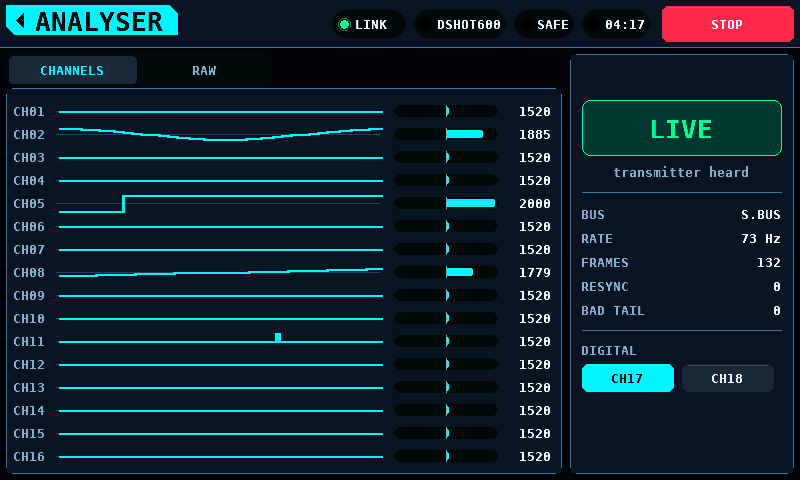
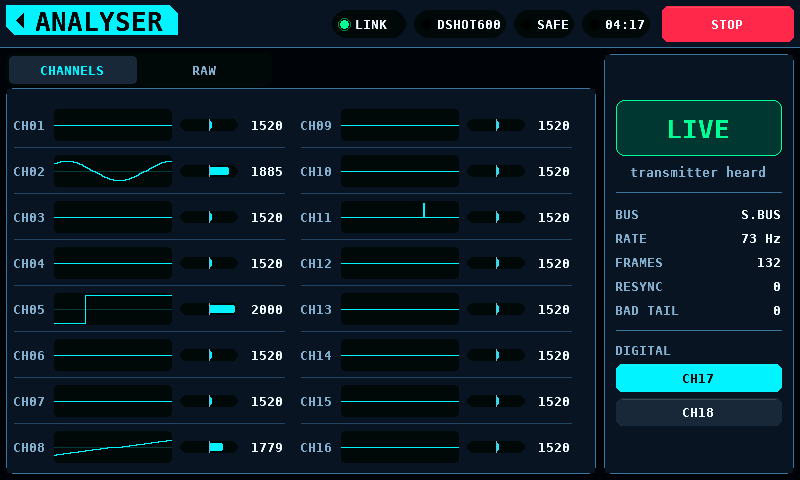
Eight by two, and a state card only as wide as its widest word
Sixteen rows gave each trace four pixels of amplitude and the whole card
of width.  Eight by two halves the history and doubles the height, which
is the better trade: a sweep reads as a curve rather than a ripple, and a
one-frame glitch is a full-height spike instead of a blip.

It costs something and the cost is worth naming.  A dropout is a notch
across all sixteen channels at one instant, and in a single column that
is one vertical event the eye catches whole; split across two it is the
same instant in two places.  The state block calls frame loss out in
words, which is why this is the trade to take.

The state card is now sized from what it must hold rather than from what
was left over: FRAME LOST at 16x28 and the sentence under it at 8x16 are
both 160 pixels, so the card is 190 and the 34 it gives back goes to the
traces.  Stacking the two digital channels is what allowed it -- that
pair side by side was setting the width, and it was being spent on eight
characters rather than on the thing next door that could use it.

The trace is clipped to its trough while drawn.  Three things put ink
outside it and only one was visible: the newest column began *at* the
right edge and is a whole pitch wide, a span between samples is drawn a
pixel taller than it measures so a flat run still shows, and the
trough's corners are rounded while the columns are not.

The centreline is the unlit shade of the trace that runs on it, not a
[…]

Changed region(s): [[0.0, 0.0938, 0.9688, 1.0], [0.8438, 0.75, 1.0, 0.875], [0.8125, 0.25, 0.9062, 0.3125]]

diff --git a/shared/ui/analyser_screen.c b/shared/ui/analyser_screen.c
@@ -28,9 +28,16 @@
 #define TAB_H   28
 #define BODY_Y  44
 
-#define LCARD_W 556
+/*
+ * The state card is only as wide as the widest thing it must hold: the word
+ * FRAME LOST at 16x28, and the sentence under it at 8x16, both 160 pixels.
+ * Everything it saves goes to the traces, which is the half of this screen
+ * that can use more room.
+ */
+#define RCARD_PREF 190
+#define LCARD_W (W - 2 * PAD - 8 - RCARD_PREF)
 #define RCARD_X (PAD + LCARD_W + 8)
-#define RCARD_W (W - RCARD_X - PAD)
+#define RCARD_W RCARD_PREF
 
 /*
  * Sixteen lanes of recent history, one per channel.
@@ -55,14 +62,21 @@
  * wide makes the eye measure a line's height against a faint centre when all
  * it wants is a length.
  */
-#define HIST      108              /* about a second and a half at S.BUS rate */
-#define LANE_H    23
-#define LANE_TOP  (BODY_Y + 8)
-#define LANE_X    56               /* where a lane's trace starts */
-#define LANE_W    (HIST * 3)
-#define BAR_X     (LANE_X + LANE_W + 14)
-#define BAR_W     104
-#define VAL_X     (BAR_X + BAR_W + 8)
+#define HIST      118             /* one pixel a sample, so about 1.7 s */
+#define PITCH     1
+
+/* Eight rows of two.  Half the history each, twice the height to draw it in. */
+#define COLS      2
+#define ROWS      8
+#define COL_W     ((LCARD_W - 16) / COLS)
+#define LANE_H    46
+#define LANE_TOP  (BODY_Y + 10)
+
+#define LAB_W     40               /* the channel's name              */
+#define TRACE_W   (HIST * PITCH)
+#define BAR_W     58
+#define BAR_GAP   8
+#define VAL_W     40
 
 static const char *const k_tab_labels[] = { "CHANNELS", "RAW" };
 
@@ -175,43 +189,89 @@ static gfx_color_t live(void)
 /* One channel's lane: its name, its trace, and where it is now. */
 static void draw_lane(gfx_canvas_t *c, int ch)
 {
-    const int y   = LANE_TOP + ch * LANE_H;
+    const int col = ch / ROWS;
+    const int row = ch % ROWS;
+    const int x0  = PAD + 8 + col * COL_W;
+    const int y   = LANE_TOP + row * LANE_H;
     const int mid = y + LANE_H / 2;
-    const int half = LANE_H / 2 - 3;
+
+    const int tx = x0 + LAB_W;
+    const int bx = tx + TRACE_W + BAR_GAP;
+    const int vx = bx + BAR_W + 6;
+
+    const int gh   = LANE_H - 14;
+    const int half = gh / 2 - 2;
 
     char lbl[16];
     snprintf(lbl, sizeof(lbl), "CH%02d", (ch + 1) & 0xFF);
-    gfx_text(c, PAD + 8, mid - 8, lbl, UI_FONT_LABEL,
+    gfx_text(c, x0, mid - 8, lbl, UI_FONT_LABEL,
              ui_theme_color(UI_C_TEXT_DIM), 1);
 
-    /* Neutral, drawn the whole width: sixteen of these make a comb the eye
-     * reads a step against without measuring anything. */
-    gfx_hline(c, LANE_X, mid, LANE_W, ui_theme_color(UI_C_GRID));
-
-    const gfx_color_t ink = live();
+    /*
+     * The trace runs in a trough of its own, in the same sunk colour the bar
+     * beside it sits in.  Drawn straight onto the card the two halves of a
+     * lane read as different kinds of thing; on the same ground they read as
+     * one instrument shown two ways.
+     */
+    gfx_fill_round_rect(c, tx, mid - gh / 2, TRACE_W, gh, 4,
+                        ui_theme_color(UI_C_PANEL_SUNK));
 
     /*
-     * Oldest at the left, newest at the right, so a change arrives at the
-     * edge you are already looking at and walks away from it.
+     * Neutral, in the unlit shade of the trace that runs on it rather than in
+     * a neutral grey.  It is the same idea as the segment numerals and the
+     * horn's rings: the line is always there in the glass, and the trace is
+     * that same line lit.
      */
-    const unsigned n = s.filled;
-    if (n > 0u) {
-    int prev_y = 0;
-    for (unsigned i = 0; i < n; ++i) {
-        const unsigned idx = (s.head + HIST - n + i) % HIST;
-        const int v  = s.hist[ch][idx];
-        const int py = mid - (v * half) / 1000;
-        const int px = LANE_X + LANE_W - (int)((n - 1u - i) * 3u);
-        if (i == 0u) {
-            prev_y = py;
-        }
-        /* A span rather than a point, so a step between two samples is a
-         * line and not two dots with nothing between them. */
-        const int top = (py < prev_y) ? py : prev_y;
-        const int bot = (py < prev_y) ? prev_y : py;
-        gfx_fill_rect(c, px, top, 3, bot - top + 2, ink);
-        prev_y = py;
+    gfx_hline(c, tx, mid, TRACE_W,
+              gfx_lerp(ui_theme_color(UI_C_PANEL_SUNK), live(), 56));
+
+    /* A rule under the lane, so a trace that wanders near the edge of its
+     * own row cannot be read as belonging to the next one. */
+    if (row < ROWS - 1) {
+        gfx_hline(c, x0, y + LANE_H - 1, COL_W - 16,
+                  gfx_lerp(ui_theme_color(UI_C_PANEL),
+                           ui_theme_color(UI_C_EDGE), 130));
     }
+
+    const gfx_color_t ink = live();
+    const unsigned n = s.filled;
+
+    if (n > 0u) {
+        /*
+         * Clipped to the trough while the trace is drawn.
+         *
+         * Three things put ink outside it otherwise, and only one of them is
+         * obvious: the newest column began *at* the right edge and is a whole
+         * pitch wide, a span between two samples is drawn a pixel taller than
+         * it measures so a flat run is still visible, and the trough's
+         * corners are rounded while the columns are not.  Clipping answers
+         * all three at once and keeps answering them if any of them change.
+         */
+        const gfx_rect_t trough = { (int16_t)tx, (int16_t)(mid - gh / 2),
+                                    (int16_t)TRACE_W, (int16_t)gh };
+        const gfx_rect_t was = c->clip;
+        if (gfx_clip_set(c, trough)) {
+            /*
+             * Oldest at the left, newest at the right, so a change arrives at
+             * the edge you are already looking at and walks away from it.
+             */
+            int prev_y = 0;
+            for (unsigned i = 0; i < n; ++i) {
+                const unsigned idx = (s.head + HIST - n + i) % HIST;
+                const int v  = s.hist[ch][idx];
+                const int py = mid - (v * half) / 1000;
+                const int px = tx + TRACE_W - PITCH
+                               - (int)((n - 1u - i) * PITCH);
+                if (i == 0u) {
+                    prev_y = py;
+                }
+                const int top = (py < prev_y) ? py : prev_y;
+                const int bot = (py < prev_y) ? prev_y : py;
+                gfx_fill_rect(c, px, top, PITCH, bot - top + 1, ink);
+                prev_y = py;
+            }
+        }
+        c->clip = was;
     }
 
     /*
@@ -219,11 +279,11 @@ static void draw_lane(gfx_canvas_t *c, int ch)
      * quantity is how far it is from neutral and which way, and a bar growing
      * from one end puts that sign in the number rather than in the picture.
      */
-    const int bh = LANE_H - 11;
-    gfx_fill_round_rect(c, BAR_X, mid - bh / 2, BAR_W, bh, bh / 2,
+    const int bh = 12;
+    gfx_fill_round_rect(c, bx, mid - bh / 2, BAR_W, bh, bh / 2,
                         ui_theme_color(UI_C_PANEL_SUNK));
     if (s.have) {
-        const int bmid  = BAR_X + BAR_W / 2;
+        const int bmid  = bx + BAR_W / 2;
         const int reach = BAR_W / 2 - 3;
         const int v     = s.hist[ch][(s.head + HIST - 1u) % HIST];
         int span = (v * reach) / 1000;
@@ -244,8 +304,8 @@ static void draw_lane(gfx_canvas_t *c, int ch)
     } else {
         snprintf(val, sizeof(val), "---");
     }
-    gfx_text_in(c, (gfx_rect_t){ (int16_t)VAL_X, (int16_t)(mid - 8),
-                                 (int16_t)(LCARD_W - VAL_X + PAD - 10), 16 },
+    gfx_text_in(c, (gfx_rect_t){ (int16_t)vx, (int16_t)(mid - 8),
+                                 (int16_t)VAL_W, 16 },
                 val, UI_FONT_LABEL,
                 s.have ? ui_theme_color(UI_C_TEXT)
                        : ui_theme_color(UI_C_TEXT_FAINT), 1,
@@ -370,11 +430,13 @@ static void draw_right(gfx_canvas_t *c)
     gfx_hline(c, x, BODY_Y + 238, w, ui_theme_color(UI_C_EDGE));
     gfx_text(c, x, BODY_Y + 250, "DIGITAL", UI_FONT_LABEL,
              ui_theme_color(UI_C_TEXT_DIM), 1);
+    /* Stacked, not side by side.  Two of these across is what set this card's
+     * width, and the width was being spent on a pair of four-character labels
+     * rather than on the traces next door. */
     for (int i = 0; i < 2; ++i) {
         const bool on = s.have && ((i == 0) ? s.frame.ch17 : s.frame.ch18);
-        const gfx_rect_t r = { (int16_t)(x + i * (w / 2)),
-                               (int16_t)(BODY_Y + 272),
-                               (int16_t)(w / 2 - 8), 28 };
+        const gfx_rect_t r = { (int16_t)x, (int16_t)(BODY_Y + 272 + i * 34),
+                               (int16_t)w, 28 };
         ui_button(c, r, (i == 0) ? "CH17" : "CH18",
                   on ? ui_theme_color(UI_C_ACCENT)
                      : ui_theme_color(UI_C_PANEL_HI),

diff --git a/test/host/render_screen.c b/test/host/render_screen.c
@@ -282,6 +282,15 @@ int main(int argc, char **argv)
                 }
             }
             raw[23] = SBUS_FLAG_CH17;
+            /*
+             * The state this screen exists for gets a golden of its own.  A
+             * receiver in failsafe sends well-formed numbers it was told to
+             * invent, and how that is presented is the thing most worth
+             * holding still between releases.
+             */
+            if (strcmp(view, "analyser-failsafe") == 0) {
+                raw[23] |= SBUS_FLAG_FAILSAFE;
+            }
 
             sbus_frame_t frame;
             bool got = false;

diff --git a/tools/render_ui.py b/tools/render_ui.py
@@ -69,6 +69,7 @@ SCREENS = {
     "servo":      ("servo.png",      "servo",      "dark"),
     "analyser":   ("analyser.png",   "analyser",   "dark"),
     "logs":       ("logs.png",       "logs",       "dark"),
+    "analyser-failsafe": ("analyser-failsafe.png", "analyser", "dark"),
     "logs-import":("logs-import.png","logs",       "dark"),
     "logs-plot":  ("logs-plot.png",  "logs",       "dark"),
     "setup":      ("setup.png",      "setup",      "dark"),

diff --git a/tools/frame_cost.py b/tools/frame_cost.py
@@ -67,6 +67,7 @@ SOURCES = [
     "shared/bench/bench_state.c",
     "shared/bench/telemetry_sim.c",
     "shared/servo/servo_sim.c",
+    "shared/sbus/sbus.c",
     "shared/bench/throttle.c",
 ]
 INCLUDES = [
@@ -78,6 +79,7 @@ INCLUDES = [
     "shared/logfile/include",
     "shared/settings/include",
     "shared/servo/include",
+    "shared/sbus/include",
 ]
 
 MODES = ["frame", "frame-idle", "sim", "chrome", "overview", "servo",

diff --git a/docs/Screens.md b/docs/Screens.md
@@ -97,10 +97,45 @@ and hands it a 432 px window, so without the shift the footer ran from 430 to
 472 in a canvas 432 tall and RESCAN, OPEN and PLOT could not be pressed at
 all.
 
-The rest, each naming its own blocker:
+The servo bench is commanded by its horn: drag anywhere on the sweep and the
+arm points there. The case beside it is not the dial, and neither is the middle
+of the boss, which is not a direction.
 
 ![Servo](img/servo.png)
+
+The arm follows the *measured* position and not the commanded one, with no
+easing of its own. Easing towards a measurement would add the bench's lag on
+top of the servo's, and once drawn the two are indistinguishable -- a slow
+servo and a slow screen look identical, and only one of them is under test. So
+the commanded position is drawn faintly behind the measured one, and lag shows
+as two arms rather than as a number disagreeing with a picture.
+
+The analyser is two thirds history and one third now. The question it is asked
+is "I moved that -- which channel was it?", and no arrangement of current
+values can answer it, because the information is in the movement. Each channel
+keeps the last second and a half, so the one that moved is the one with a step
+in it, and the eye finds a step among fifteen flat lines without being told
+where to look. The bar beside each trace answers the other question -- how far
+is it now -- without reading a number.
+
 ![Analyser](img/analyser.png)
+
+It is also the only arrangement that separates the two faults worth catching: a
+glitch is a spike in one lane, a dropout is a notch across all sixteen at the
+same instant.
+
+The state block is the largest thing on that screen, and this is why:
+
+![A receiver in failsafe](img/analyser-failsafe.png)
+
+A receiver in failsafe sends sixteen perfectly well-formed channel values that
+it was told to invent. Every trace and every bar turns red and the screen says
+so in words, because a bench that draws invented numbers the same colour as
+measured ones is helping somebody trust them. Four states, not two: silent,
+failsafe, frame lost and live, each with a line saying what it means.
+
+The rest, each naming its own blocker:
+
 ![Battery](img/battery.png)
 ![Balance](img/balance.png)
 ![Programmer](img/programmer.png)

diff --git a/docs/Performance.md b/docs/Performance.md
@@ -23,13 +23,13 @@ panel 39.0 Hz, ~39 MB/s effective -> 976 KiB of traffic per panel frame
 
 mode       lines/frame     traffic   est. ms  est. fps
 -------------------------------------------------------
-frame           10,890     1361 KiB     35.7      19.5
-frame-idle          974      122 KiB      3.2      39.0
-sim             11,703     1463 KiB     38.4      19.5
-chrome          30,431     3804 KiB     99.9       9.8
-overview           940      118 KiB      3.1      39.0
-servo           15,452     1932 KiB     50.7      19.5
-servo-grip        2,982      373 KiB      9.8      39.0
+frame           10,820     1352 KiB     35.5      19.5
+frame-idle          916      114 KiB      3.0      39.0
+sim             11,628     1454 KiB     38.2      19.5
+chrome          30,309     3789 KiB     99.5       9.8
+overview           906      113 KiB      3.0      39.0
+servo           15,406     1926 KiB     50.6      19.5
+servo-grip        2,946      368 KiB      9.7      39.0
 clear           12,006     1501 KiB     39.4      19.5
 vlines           8,160     1020 KiB     26.8      19.5
 hlines               0        0 KiB      0.0      39.0

diff --git a/README.md b/README.md
@@ -354,7 +354,7 @@ samples currently costs **740**.
 | `shared/ui/stub_screen.c` | 45 | 41 | 91.1% |
 | `shared/ui/motor_screen.c` | 175 | 169 | 96.6% |
 | `shared/ui/servo_screen.c` | 344 | 306 | 89.0% |
-| `shared/ui/analyser_screen.c` | 194 | 184 | 94.8% |
+| `shared/ui/analyser_screen.c` | 214 | 204 | 95.3% |
 | `shared/ui/log_viewer_screen.c` | 681 | 621 | 91.2% |
 | `shared/ui/settings_screen.c` | 241 | 228 | 94.6% |
 | `shared/settings/settings.c` | 131 | 125 | 95.4% |
@@ -381,7 +381,7 @@ samples currently costs **740**.
 | `shared/bench/throttle.c` | 53 | 45 | 84.9% |
 | `shared/bench/telemetry_sim.c` | 47 | 44 | 93.6% |
 | `shared/bench/log_writer.c` | 43 | 40 | 93.0% |
-| **total** | **6211** | **5870** | **94.5%** |
+| **total** | **6231** | **5890** | **94.5%** |
 
 _Generated by `tools/coverage.py`; CI runs `--check` and fails on drift._
 <!-- coverage:end -->
